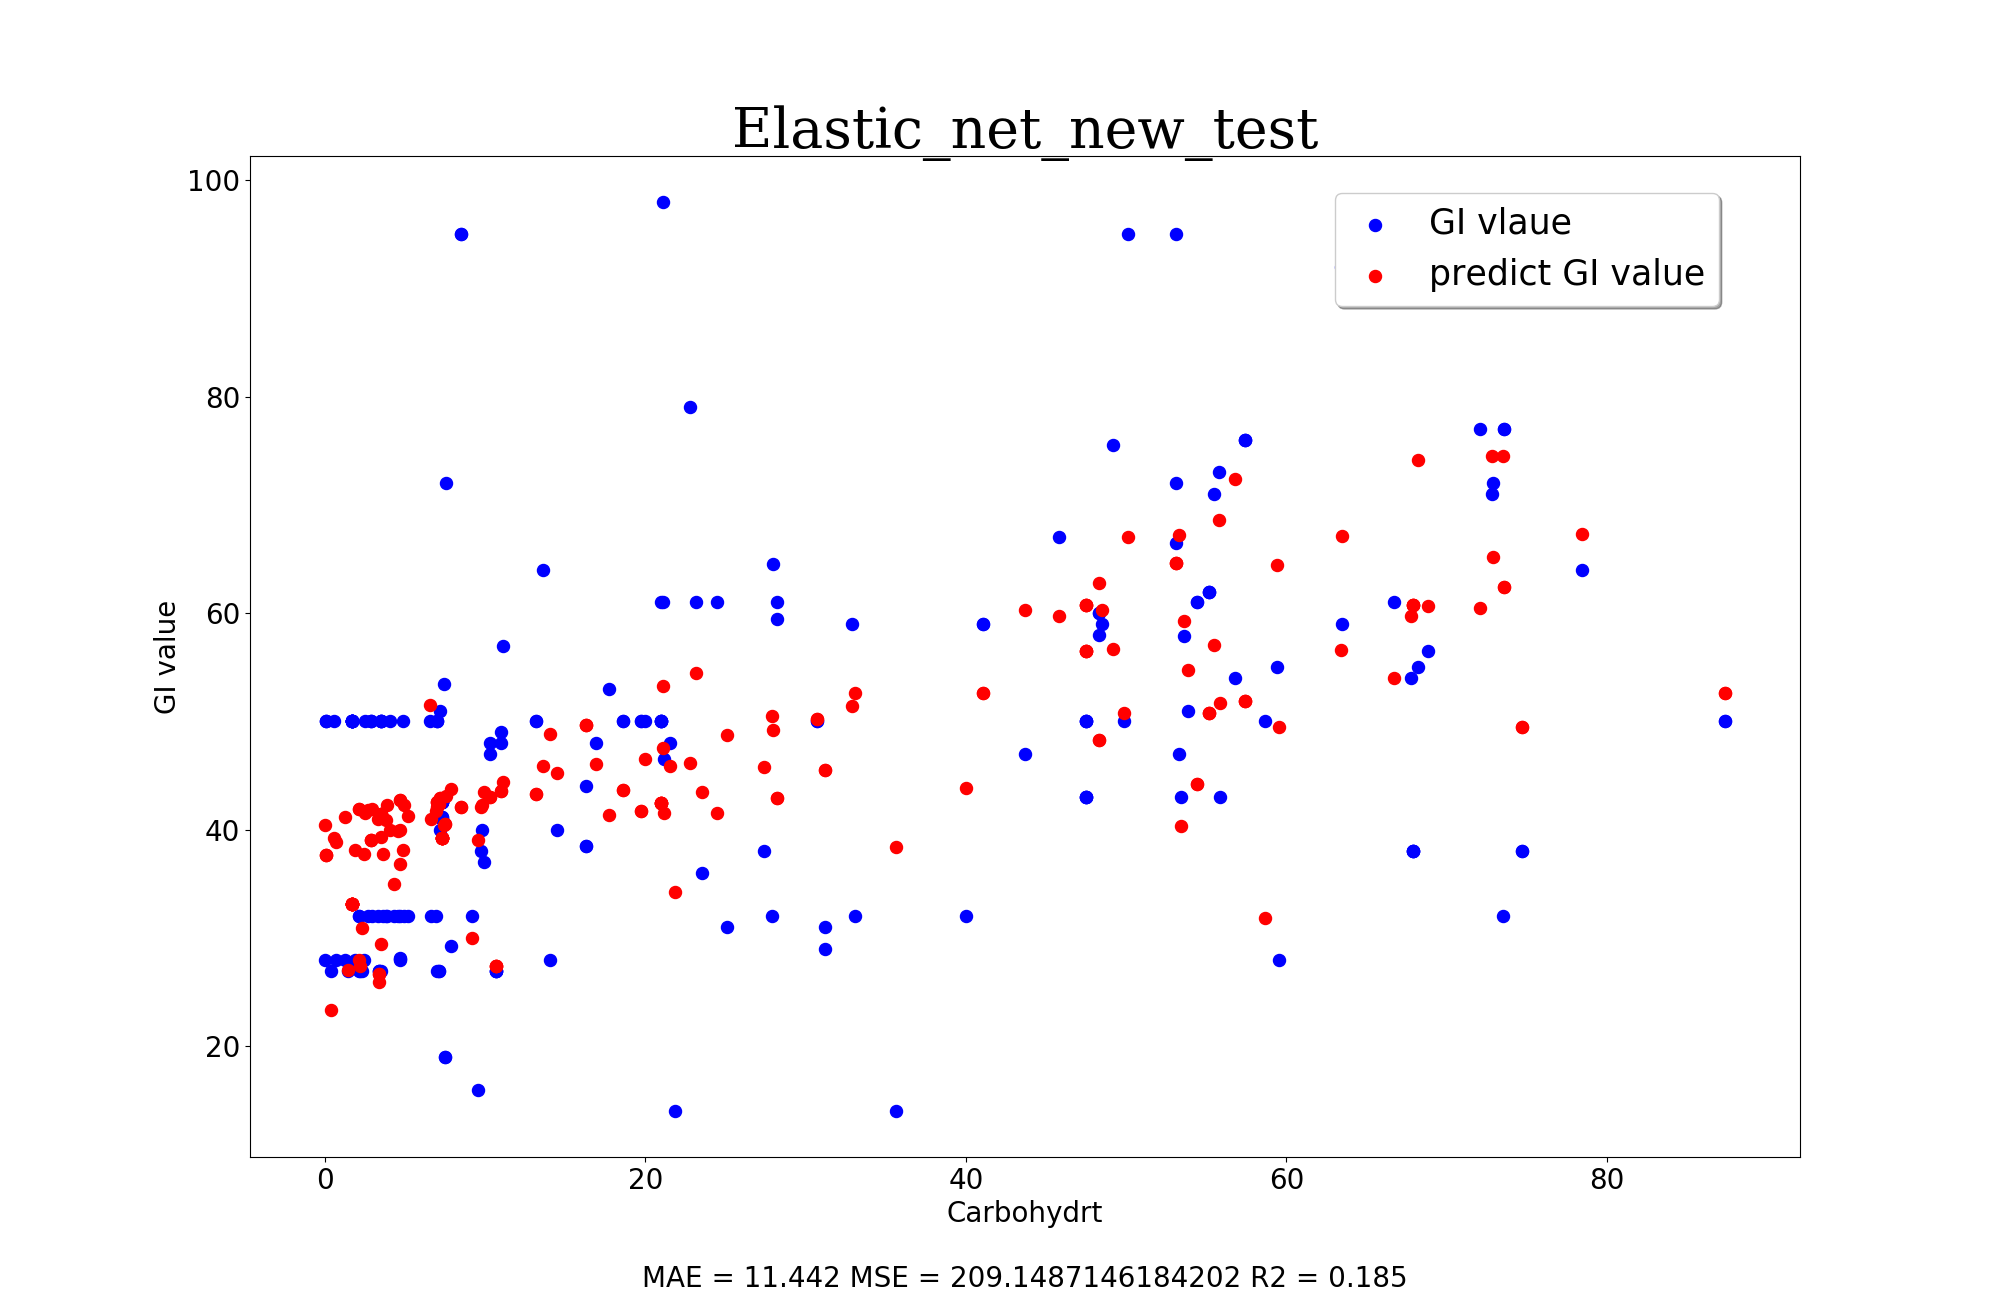
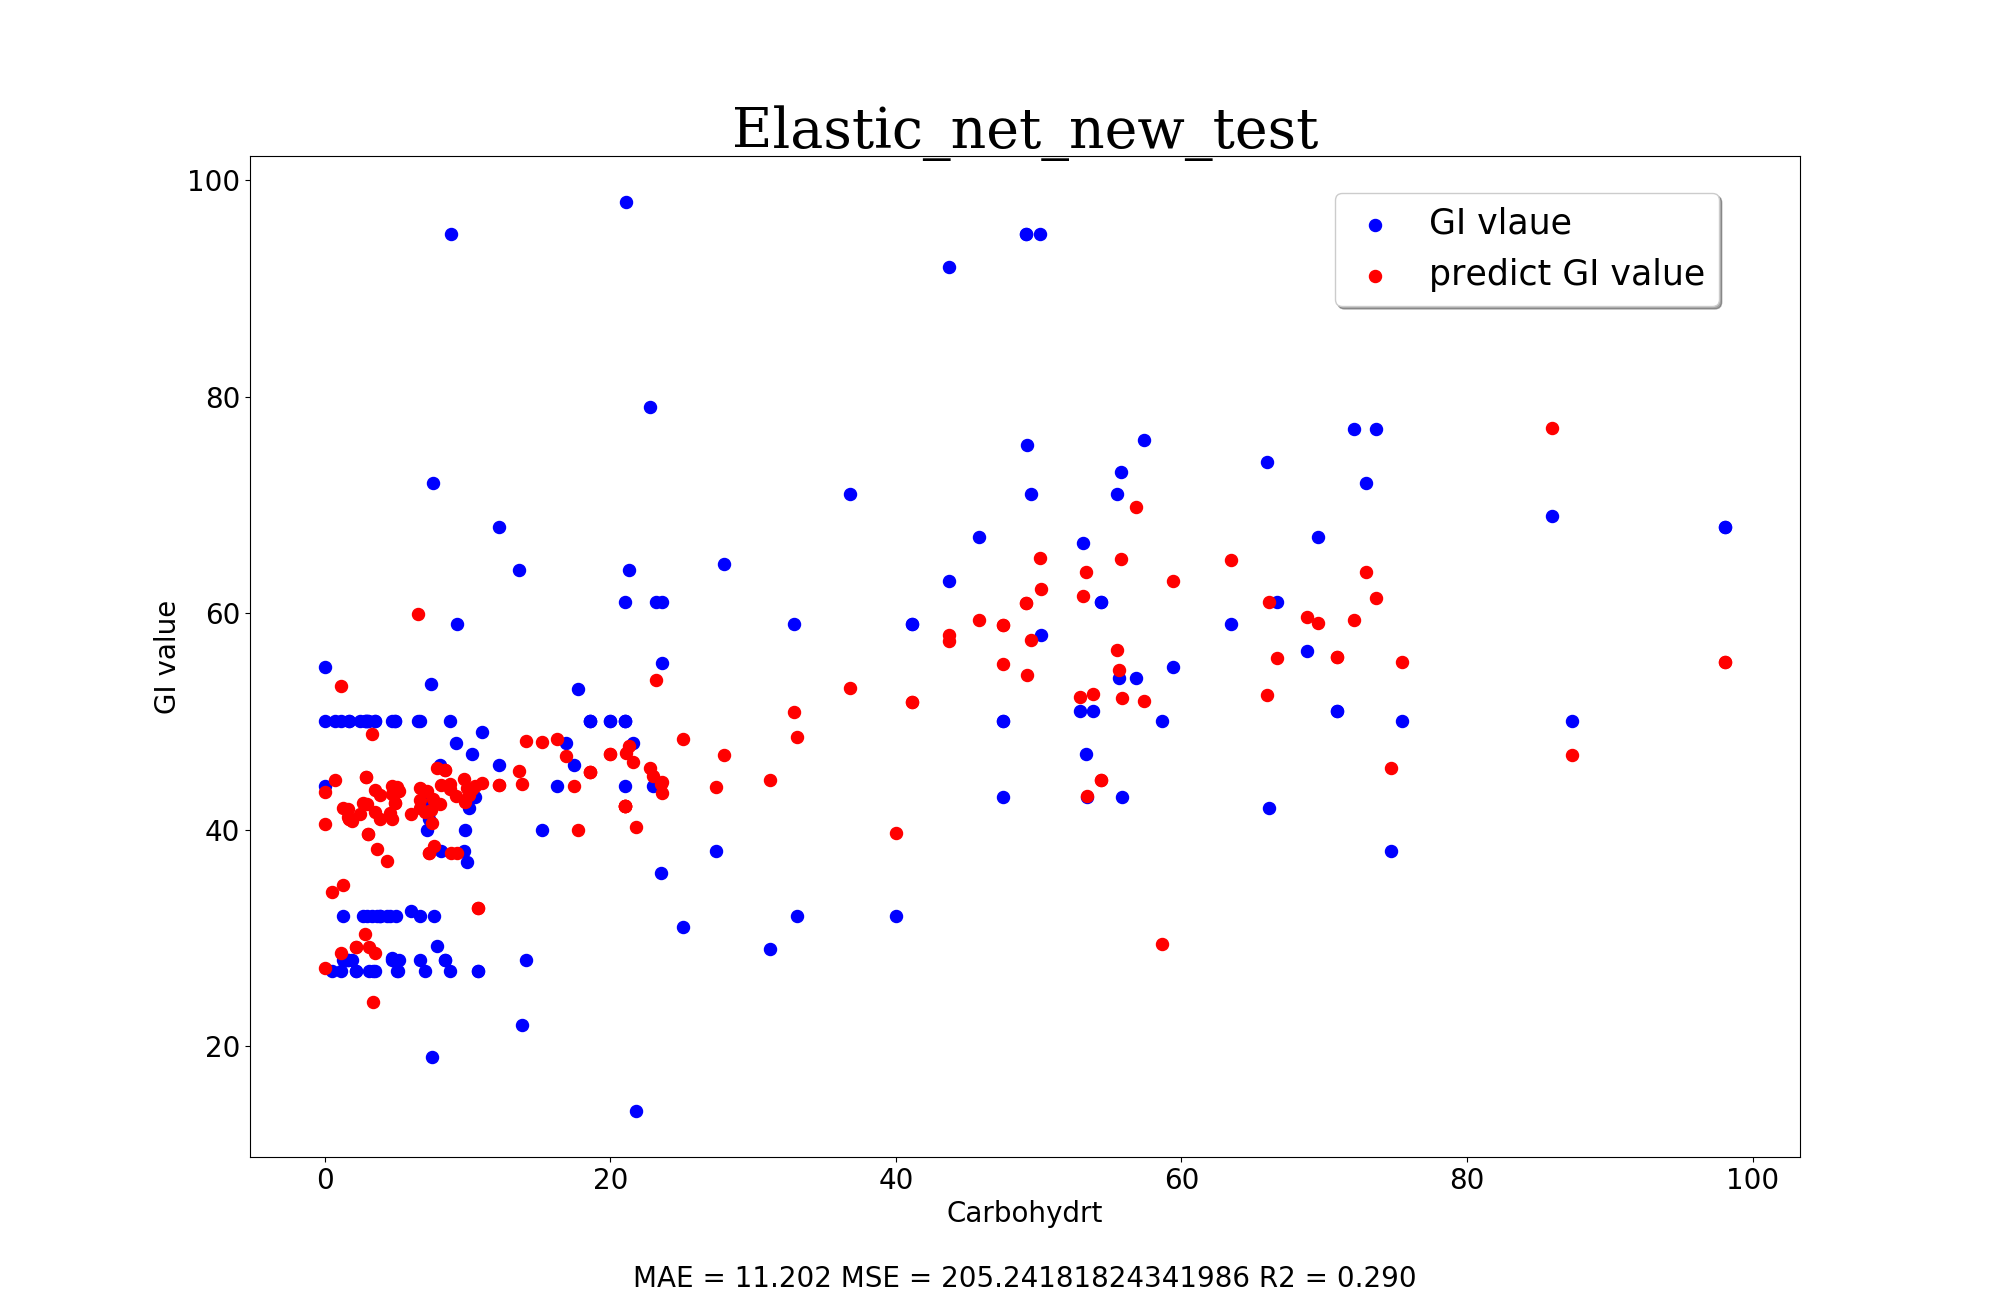
test biggest food groups

diff --git a/Machine_Learning/ML code.py b/Machine_Learning/ML code.py
@@ -1,12 +1,13 @@
 import sklearn
 
-from sklearn import tree
-from sklearn.metrics import mean_absolute_error
+from sklearn.linear_model import ElasticNetCV
 from sklearn.model_selection import train_test_split
 import os
 import pandas as pd
 from sklearn import metrics
 import numpy as np
+from sklearn.metrics import mean_absolute_error
+
 
 
 from Machine_Learning import decision_tree, linear_regression, elastic_net, random_forest, Plot_output
@@ -116,70 +117,29 @@ def get_df_by_features(df, features):
 
     return new_df
 
-def linear_regression_by_features(features, pic_name):
+def linear_regression_by_features(ml_df, features, pic_name):
     filter_df = get_df_by_features(ml_df, features)
     X_train, X_test, y_train, y_test = get_train_and_test(filter_df)
     linear_regression.predict(X_train, X_test, y_train, y_test, features, pic_name)
 
-if __name__ == '__main__':
-    # os.chdir(os.getcwd()[:os.getcwd().index("Machine_Learning")] + "Excel_files")
-    # df = pd.read_excel("GI_USDA_CLEAN_FOOD_GROUPS.xlsx")
-    #
-    # null_columns = df.columns[df.isnull().any()]
-    # print(df[df["Sugar_Tot_(g)"].isna()]['FdGrp_desc'])
-    #
-    # ml_df = df.drop(['CSFII 1994-96 Food Code',
-    #                  'source table', 'NDB_No', 'reference food & time period', 'serve Size g',
-    #                  'available cerbo hydrate', 'GL per serve', 'GI_2', 'acc', 'match-sent',
-    #                  'GmWt_Desc2', 'GmWt_Desc1', 'Manganese_(mg)',
-    #                  'GmWt_1', 'GmWt_2', 'Panto_Acid_mg)', 'Choline_Tot_ (mg)'], axis='columns')
-    #
-    # median_df = ml_df.median(skipna=True, numeric_only=True)
-    # food_groups_df = pd.read_excel("GI_USDA_CLEAN_FOOD_GROUPS.xlsx")
-    # food_groups = food_groups_df.pop("FdGrp_desc")
-    # food_groups = food_groups.unique()
-    #
-    # # for column in ml_df:
-    # #     if column == "Food Description in 1994-96 CSFII" or column == "FdGrp_desc":
-    # #         continue
-    # #     ml_df[column] = ml_df[column].fillna(median_df[column])
-    #
-    # for food_group in food_groups:
-    #     # foods_by_food_group = ml_df.loc[ml_df.FdGrp_desc == food_group]
-    #     # mean by colums
-    #     # median = foods_by_food_group.mean(axis=0, skipna=True)
-    #     for column in ml_df:
-    #         if column == "Food Description in 1994-96 CSFII" or column == "FdGrp_desc":
-    #             continue
-    #         m1 = (ml_df['FdGrp_desc'] == food_group)
-    #         ml_df.loc[m1, column] = df.loc[m1, column].fillna(df.loc[m1, column].median())
-    #
-    # writer = pd.ExcelWriter('GI_USDA_full.xlsx', engine='xlsxwriter')
-    # ml_df.to_excel(writer, sheet_name='Sheet1')
-    # writer.save()
-    #         # ml_df[column] = ml_df[column].fillna(median_df[column])
-    #
+def learn(ml_df, pic_name=""):
+    # X_train, X_test, y_train, y_test = split_to_train_test(ml_df)
+    # RF_X_train, RF_X_test, RF_y_train, RF_y_test = split_to_train_test(ml_df, with_food_groups=1)
 
-    os.chdir(os.getcwd()[:os.getcwd().index("Machine_Learning")] + "Excel_files")
-    ml_df = pd.read_excel("GI_USDA_full.xlsx")
-
-
-    X_train, X_test, y_train, y_test = split_to_train_test(ml_df)
-    RF_X_train, RF_X_test, RF_y_train, RF_y_test = split_to_train_test(ml_df, with_food_groups=1)
-
-    # X_train, X_test, y_train, y_test = get_train_and_test(ml_df)
-    # X_train = X_train.drop(['Food Description in 1994-96 CSFII'], axis='columns')
-    # X_test = X_test.drop(['Food Description in 1994-96 CSFII'], axis='columns')
-    # X_train = X_train.drop(['FdGrp_desc'], axis='columns')
-    # X_test = X_test.drop(['FdGrp_desc'], axis='columns')
+    X_train, X_test, y_train, y_test = get_train_and_test(ml_df)
+    X_train = X_train.drop(['Food Description in 1994-96 CSFII'], axis='columns')
+    X_test = X_test.drop(['Food Description in 1994-96 CSFII'], axis='columns')
+    X_train = X_train.drop(['FdGrp_desc'], axis='columns')
+    X_test = X_test.drop(['FdGrp_desc'], axis='columns')
 
     features = list(ml_df.columns.values)
     features.remove('GI Value')
     features.remove('Food Description in 1994-96 CSFII')
     features.remove('FdGrp_desc')
 
+    pic_name = "_" + pic_name
 
-    Plot_output.plot_two_cols(x='Carbohydrt_(g)', y='GI Value', df=ml_df, pic_name="carbo_vs_gi")
+    # Plot_output.plot_two_cols(x='Carbohydrt_(g)', y='GI Value', df=ml_df, pic_name="carbo_vs_gi" + pic_name)
 
     ##########################################################
     # decision tree
@@ -192,12 +152,12 @@ if __name__ == '__main__':
     # linear regression
     ##########################################################
 
-    print("\n\nLinear regression model:\n")
-    linear_regression_by_features(['Carbohydrt_(g)'], 'LR_carbo_new_test')
-    linear_regression_by_features(['Carbohydrt_(g)', 'Sugar_Tot_(g)'], 'LR_carbo_sugar_new_test')
-    linear_regression_by_features(['Carbohydrt_(g)', 'Lipid_Tot_(g)'], 'LR_carbo_lipid_new_test')
-    linear_regression_by_features(['Carbohydrt_(g)', 'Lipid_Tot_(g)','Protein_(g)', 'Fiber_TD_(g)', 'Sugar_Tot_(g)'],
-                                  'LR_carbo_lipid_pro_fibe_sug_new_test')
+    # print("\n\nLinear regression model:\n")
+    # linear_regression_by_features(ml_df, ['Carbohydrt_(g)'], 'LR_carbo_new_test')
+    # linear_regression_by_features(ml_df,['Carbohydrt_(g)', 'Sugar_Tot_(g)'], 'LR_carbo_sugar_new_test' + pic_name)
+    # linear_regression_by_features(ml_df,['Carbohydrt_(g)', 'Lipid_Tot_(g)'], 'LR_carbo_lipid_new_test'+ pic_name)
+    # linear_regression_by_features(ml_df,['Carbohydrt_(g)', 'Lipid_Tot_(g)','Protein_(g)', 'Fiber_TD_(g)', 'Sugar_Tot_(g)'],
+    #                               'LR_carbo_lipid_pro_fibe_sug_new_test'+ pic_name)
 
     # ##########################################################
     # # elastic net
@@ -205,7 +165,7 @@ if __name__ == '__main__':
 
     print("\n\nElastic net model:\n")
     print("features: ", list(ml_df.columns.values))
-    elastic_net.predict(X_train, X_test, y_train, y_test, features, "Elastic_net_new_test")
+    elastic_net.predict(X_train, X_test, y_train, y_test, features, "Elastic_net_new_test" + pic_name)
 
     ##########################################################
     # random forest
@@ -214,8 +174,71 @@ if __name__ == '__main__':
     # print("\n\nRandom Forest model:\n")
     # features.append(('FdGrp_desc'))
     # random_forest.predict(RF_X_train, RF_X_test, RF_y_train, RF_y_test, features,
-    #                       'RF_variable_importance_new_test_fg', 'Random_Forest_new_test_fg')
+    #                       'RF_variable_importance_new_test_fg' + pic_name, 'Random_Forest_new_test_fg'+ pic_name)
 
+
+
+def run_on_big_food_group():
+    os.chdir(os.getcwd()[:os.getcwd().index("Machine_Learning")] + "Excel_files")
+    df = pd.read_excel("GI_USDA_full.xlsx")
+    test_df = pd.read_excel("GI_USDA_full.xlsx")
+
+    print(df['FdGrp_desc'].value_counts())
+
+
+    biggest_food_group_1 = df['FdGrp_desc'].value_counts().index[0]
+    biggest_food_group_2 = df['FdGrp_desc'].value_counts().index[1]
+
+    ml_df = df.loc[(df['FdGrp_desc'] == biggest_food_group_1) | (df['FdGrp_desc'] == biggest_food_group_2)]
+
+    learn(ml_df, "biggest_fg")
+
+    X_train, X_test, y_train, y_test = get_train_and_test(test_df)
+    X_train = X_train.drop(['Food Description in 1994-96 CSFII'], axis='columns')
+    X_test = X_test.drop(['Food Description in 1994-96 CSFII'], axis='columns')
+    X_train = X_train.drop(['FdGrp_desc'], axis='columns')
+    X_test = X_test.drop(['FdGrp_desc'], axis='columns')
+
+    features = list(test_df.columns.values)
+    features.remove('GI Value')
+    features.remove('Food Description in 1994-96 CSFII')
+    features.remove('FdGrp_desc')
+
+
+    pic_name = "el_test"
+    model = ElasticNetCV(cv=4)
+    model.fit(X_train, y_train)
+
+    predict = model.predict(X_test)
+    print("mean absolute error: ", mean_absolute_error(y_test, predict))
+    print("r2 error: ", sklearn.metrics.r2_score(y_test, predict))
+    print("alpha: " , model.alpha_)
+    print("alphas: ", model.alphas_)
+    print("iter: ", model.n_iter_)
+
+    x = len(features)
+    y = len(model.coef_)
+    coefficients = [(d, c) for d, c in zip(features, model.coef_)]
+    coefficients_str = ""
+    for a, b in coefficients:
+        coefficients_str += a + ": " + str("%.4f" % b) + "\n"
+    coefficients_str = coefficients_str[:-2]
+
+    print("coef: ", coefficients_str)
+
+    Plot_output.plot_coefficients(coefficients_str, pic_name=pic_name)
+    Plot_output.plot_graph(X_test, y_test, predict, pic_name)
+
+
+
+
+if __name__ == '__main__':
+    # # os.chdir(os.getcwd()[:os.getcwd().index("Machine_Learning")] + "Excel_files")
+    # # ml_df = pd.read_excel("GI_USDA_full.xlsx")
+    #
+    # learn(ml_df)
+
+    run_on_big_food_group()
 
 
 

diff --git a/Machine_Learning/elastic_net.py b/Machine_Learning/elastic_net.py
@@ -5,7 +5,7 @@ from Machine_Learning import Plot_output
 
 
 def predict(X_train, X_test, y_train, y_test, features, pic_name):
-    model = ElasticNetCV(cv=5, random_state=0)
+    model = ElasticNetCV(cv=4)
     model.fit(X_train, y_train)
 
     predict = model.predict(X_test)
@@ -22,50 +22,8 @@ def predict(X_train, X_test, y_train, y_test, features, pic_name):
     for a, b in coefficients:
         coefficients_str += a + ": " + str("%.4f" % b) + "\n"
     coefficients_str = coefficients_str[:-2]
-    # index = coefficients_str.index("Phosphorus_(mg)")
-    # coefficients_str = coefficients_str[:index - 1] + '\n' + coefficients_str[index :]
-    #
-    # index = coefficients_str.index("Vit_B6_(mg)")
-    # coefficients_str = coefficients_str[:index - 1] + '\n' + coefficients_str[index:]
-    #
-    # index = coefficients_str.index("Beta_Carot_(µg)")
-    # coefficients_str = coefficients_str[:index - 1] + '\n' + coefficients_str[index:]
 
     print("coef: ", coefficients_str)
 
     Plot_output.plot_coefficients(coefficients_str, pic_name=pic_name)
     Plot_output.plot_graph(X_test, y_test, predict, pic_name)
-
-
-# def plot_predict(X_test, y_test, predict, pic_name, coefficients_str):
-#     plt.figure(figsize=(17, 12))
-#
-#     plt.scatter(y_test, predict, color='blue', s=40)
-#
-#     # x = np.linspace(0, max(predict) + 10)
-#     # plt.plot(x, 'r')
-#     # plt.scatter(X_test['Carbohydrt_(g)'], predict, color='red', s=35)
-#     plt.xlabel('GI value')
-#     plt.ylabel('Predicted GI value')
-#
-#     plt.xticks(())
-#     plt.yticks(())
-#
-#     # plt.legend(('GI vlaue', 'predict GI value'),
-#     #            shadow=True, loc=(0.75, 0.85), handlelength=1.5, fontsize=20)
-#
-#     font = {'family': 'serif',
-#             'color': 'black',
-#             'weight': 'normal',
-#             'size': 30,
-#             }
-#     plt.title(pic_name, fontdict=font)
-#     plt.xlabel('GI value'+ '\n' +
-#                 'Model Error = ' + str(mean_absolute_error(y_test, predict)) + '\n' +
-#                'R2 score = ' + str(sklearn.metrics.r2_score(y_test, predict)) +
-#                "coefficients: " + '\n' +
-#                coefficients_str, fontsize=10)
-#
-#     if not os.getcwd().__contains__("Graphs & Photos"):
-#         os.chdir(os.getcwd()[:os.getcwd().index("Excel_files")] + "Graphs & Photos")
-#     plt.savefig(pic_name + '.png')

diff --git a/Machine_Learning/linear_regression.py b/Machine_Learning/linear_regression.py
@@ -48,36 +48,3 @@ def predict(X_train, X_test, y_train, y_test, feaures, pic_name):
     print(coefficients_str)
 
     Plot_output.plot_graph(X_test, y_test, predict, pic_name, coefficients_str)
-
-    # # Plot outputs
-    # plt.figure(figsize=(17, 12))
-    #
-    # plt.scatter(y_test, predict, color='blue', s=40)
-    # # plt.scatter(X_test['Carbohydrt_(g)'], y_test, color='blue', s = 40)
-    # # plt.scatter(X_test['Carbohydrt_(g)'], predict, color='red', s = 35)
-    #
-    # plt.xticks(())
-    # plt.yticks(())
-    #
-    # # plt.legend(('GI vlaue', 'predict GI value'),
-    # #            shadow=True, loc=(0.75, 0.85), handlelength=1.5, fontsize=20)
-    #
-    # font = {'family': 'serif',
-    #         'color': 'black',
-    #         'weight': 'normal',
-    #         'size': 30,
-    #         }
-    # plt.title(pic_name, fontdict=font)
-    # plt.xlabel('GI value' + '\n' +
-    #            'Mean absolute Error = ' + str(mean_absolute_error(y_test, predict)) + '\n' +
-    #             'R2 score = ' + str(sklearn.metrics.r2_score(y_test, predict)) +
-    #            'coefficients: ' + '\n' +
-    #            coefficients_str, fontsize=15)
-    #
-    # plt.ylabel('Predicted GI value')
-    #
-    # if not os.getcwd().__contains__("Graphs & Photos"):
-    #     os.chdir(os.getcwd()[:os.getcwd().index("Excel_files")] + "Graphs & Photos")
-    # plt.savefig(pic_name + '.png')
-    # # plt.show()
-

diff --git a/Machine_Learning/decision_tree.py b/Machine_Learning/decision_tree.py
@@ -52,38 +52,5 @@ def predict(X_train, X_test, y_train, y_test, labels, pic_name):
 
     Plot_output.plot_graph(X_test, y_test, cv_predict, pic_name)
 
-    # # Plot outputs
-    # plt.figure(figsize=(17, 12))
-    #
-    # plt.scatter(y_test, cv_predict, color='blue', s=40)
-    #
-    # # plt.scatter(X_test['Carbohydrt_(g)'], y_test, color='blue', s = 40)
-    # # plt.scatter(X_test['Carbohydrt_(g)'], cv_predict, color='red', s = 35)
-    #
-    # plt.xticks(())
-    # plt.yticks(())
-    #
-    # # plt.legend(('GI vlaue', 'predict GI value'),
-    # #            shadow=True, loc=(0.75, 0.85), handlelength=1.5, fontsize=20)
-    #
-    # font = {'family': 'serif',
-    #         'color': 'black',
-    #         'weight': 'normal',
-    #         'size': 30,
-    #         }
-    # plt.title(pic_name, fontdict=font)
-    # plt.xlabel('GI value' + '\n' +
-    #            'Mean absolute Error = ' + str(mean_absolute_error(y_test, cv_predict)) + '\n' +
-    #             'R2 score = ' + str(sklearn.metrics.r2_score(y_test, cv_predict)) + '\n' ,
-    #             fontsize = 18)
-    #
-    # plt.ylabel('Predicted GI value')
-    #
-    # if not os.getcwd().__contains__("Graphs & Photos"):
-    #     os.chdir(os.getcwd()[:os.getcwd().index("Excel_files")] + "Graphs & Photos")
-    # plt.savefig(pic_name + '.png')
-
-
-
 
 

diff --git a/Machine_Learning/Plot_output.py b/Machine_Learning/Plot_output.py
@@ -36,7 +36,7 @@ def plot_graph(X_test, y_test, predict, pic_name, coefficients_str=""):
     else:
         plt.xlabel('Carbohydrt' + '\n\n' +
                    'MAE = ' + str("%.3f" % mean_absolute_error(y_test, predict)) +
-                   ' MSE = ' + str(sklearn.metrics.mean_squared_error(y_test, predict)) +
+                   ' MSE = ' + str("%.3f" % sklearn.metrics.mean_squared_error(y_test, predict)) +
                    ' R2 = ' + str("%.3f" % sklearn.metrics.r2_score(y_test, predict)) +
                    " coefficients: " + coefficients_str,
                     fontsize = 20)

diff --git a/Machine_Learning/improve_ml_code.py b/Machine_Learning/improve_ml_code.py
@@ -1,0 +1,18 @@
+import os
+import pandas as pd
+
+def run_on_big_food_group():
+    os.chdir(os.getcwd()[:os.getcwd().index("Machine_Learning")] + "Excel_files")
+    df = pd.read_excel("GI_USDA_full.xlsx")
+
+    biggest_food_group = df['FdGrp_desc'].value_counts().index[0]
+
+    ml_df = df.loc[df['FdGrp_desc'] == biggest_food_group]
+
+    # ML_code.learn(ml_df, "biggest_fg")
+
+
+
+
+if __name__ == '__main__':
+    run_on_big_food_group()
